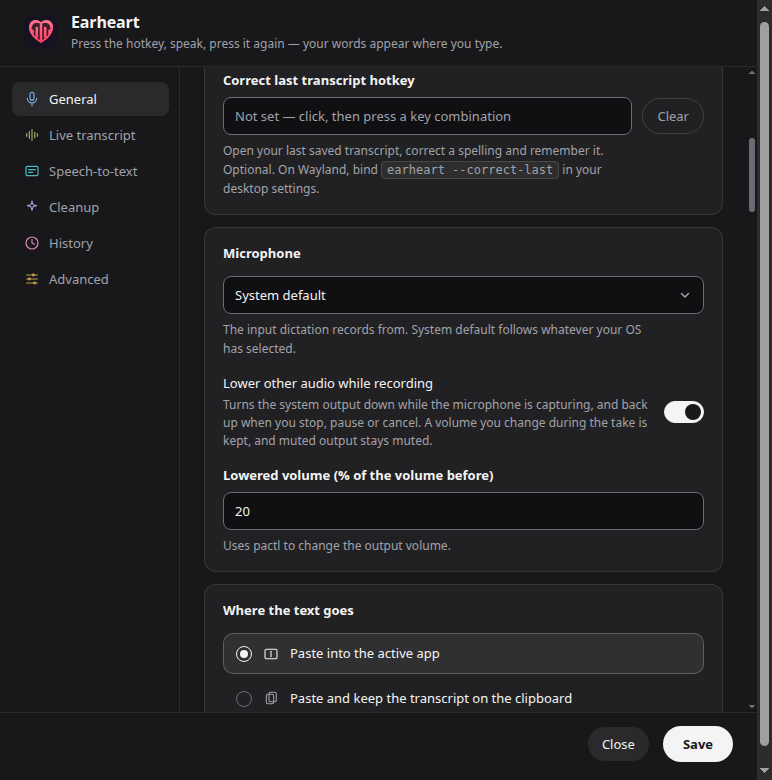
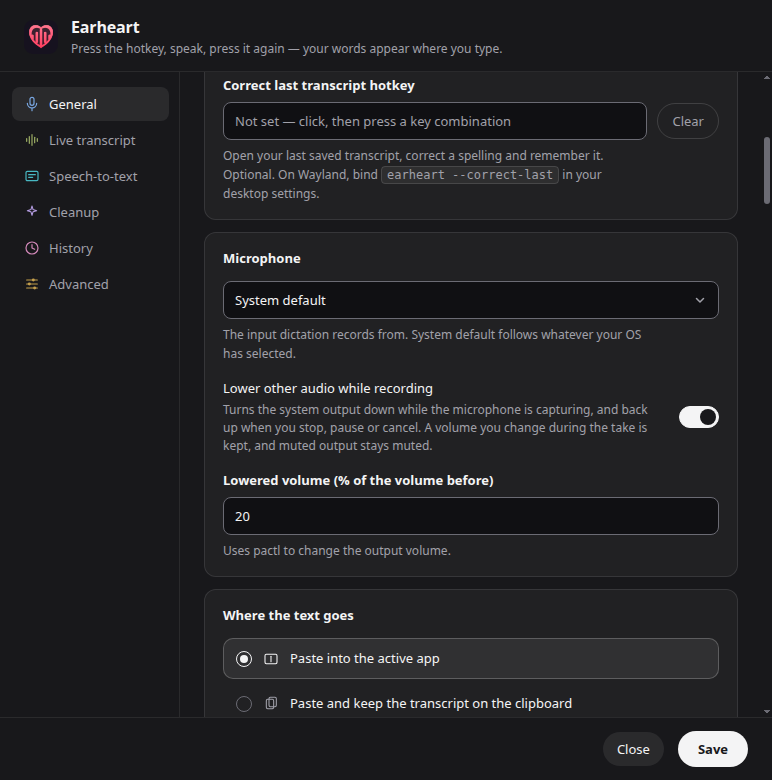
fix: remove the extra scrollbar from settings

diff --git a/scripts/settings-smoke.js b/scripts/settings-smoke.js
@@ -4,6 +4,8 @@
 //   1. The panel is one continuous scroll: every section renders at once
 //      (the scroll range is far taller than the viewport), none are
 //      display:none-swapped.
+//      Only the panel scrolls: hidden labels must not create an outer page
+//      scrollbar, including at the minimum window size.
 //   2. The scroll spy works: scrolling to the bottom lights the last index
 //      entry (Advanced) with .active + aria-current.
 //   3. The index navigates: clicking General re-highlights its entry immediately
@@ -409,6 +411,58 @@ app.whenReady().then(async () => {
       `)
     );
     check("panel scrolls as one surface", layout.scrollable);
+    const originalSize = win.getSize();
+    for (const [width, height] of [[772, 780], [755, 740], [560, 480]]) {
+      win.setSize(width, height);
+      await js(`new Promise(resolve => requestAnimationFrame(() => requestAnimationFrame(() => resolve(true))))`);
+      const bounds = await js(`(() => {
+        const host = document.querySelector("main");
+        const root = document.scrollingElement;
+        const header = document.querySelector("header");
+        const footer = document.querySelector("footer");
+        host.style.scrollBehavior = "auto";
+        host.scrollTop = host.scrollHeight;
+        window.scrollTo(0, root.scrollHeight);
+        const result = {
+          pageOverflow: root.scrollHeight - root.clientHeight,
+          pageScroll: window.scrollY,
+          panelScroll: host.scrollTop,
+          headerTop: header.getBoundingClientRect().top,
+          footerBottom: footer.getBoundingClientRect().bottom,
+          viewport: innerHeight,
+          horizontalOverflow: root.scrollWidth - root.clientWidth,
+        };
+        host.scrollTop = 0;
+        host.style.scrollBehavior = "";
+        return result;
+      })()`);
+      check(`only the settings panel scrolls at ${width}×${height}`,
+        bounds.pageOverflow === 0 && bounds.pageScroll === 0 &&
+        bounds.panelScroll > 0 && bounds.headerTop === 0 &&
+        Math.abs(bounds.footerBottom - bounds.viewport) < 1 &&
+        bounds.horizontalOverflow === 0, JSON.stringify(bounds));
+    }
+    win.setSize(...originalSize);
+    await js(`new Promise(resolve => requestAnimationFrame(() => requestAnimationFrame(() => resolve(true))))`);
+    const middleSpy = await js(`(() => {
+      const host = document.querySelector("main");
+      const section = document.getElementById("tab-cleanup");
+      const top = section.getBoundingClientRect().top - host.getBoundingClientRect().top + host.scrollTop;
+      host.style.scrollBehavior = "auto";
+      const activeAt = (offset) => {
+        host.scrollTop = top - offset;
+        host.dispatchEvent(new Event("scroll"));
+        return document.querySelector(".tab.active").dataset.tab;
+      };
+      const before = activeAt(60);
+      const after = activeAt(20);
+      host.scrollTop = 0;
+      host.dispatchEvent(new Event("scroll"));
+      host.style.scrollBehavior = "";
+      return { before, after };
+    })()`);
+    check("scroll spy changes sections at the panel read line",
+      middleSpy.before === "stt" && middleSpy.after === "cleanup", JSON.stringify(middleSpy));
     const microphone = JSON.parse(await js(`JSON.stringify({
       value: document.getElementById("mic-device").value,
       label: document.querySelector('#mic-device option[value="missing-saved-device"]')?.textContent,

diff --git a/renderer/settings.js b/renderer/settings.js
@@ -56,7 +56,7 @@ function activateTab(name, { focus = false, focusSection = false } = {}) {
   const target = Math.max(
     0,
     Math.min(
-      section.offsetTop - panelHost.offsetTop - 12,
+      section.offsetTop - 12, // main is the section's positioned offset parent
       panelHost.scrollHeight - panelHost.clientHeight
     )
   );
@@ -91,7 +91,7 @@ function spySections() {
     name = sectionName(panels[panels.length - 1]);
   } else {
     for (const p of panels) {
-      if (p.offsetTop - panelHost.offsetTop - 40 <= fromTop) {
+      if (p.offsetTop - 40 <= fromTop) {
         name = sectionName(p);
       }
     }

diff --git a/renderer/settings.css b/renderer/settings.css
@@ -208,6 +208,9 @@ nav#tabs {
 /* ---------- scroll area + sections ---------- */
 
 main {
+  /* Keep absolutely positioned accessibility labels inside this scroller;
+     otherwise their static positions extend the document's scroll range. */
+  position: relative;
   flex: 1;
   min-width: 0;
   overflow-y: auto;

diff --git a/DESIGN.md b/DESIGN.md
@@ -431,6 +431,8 @@ vanishes on its own. The index is a scroll spy with roving tabindex: the
 entry currently in view takes the wash; clicking glides the page
 (`scroll-behavior: smooth`) and moves focus to the section legend. Below 600px
 the index docks horizontally above the page.
+The scrolling `main` is a positioned container so visually hidden labels stay
+inside its scroll range and cannot create an outer document scrollbar.
 
 **The setup wizard** (620×680, 560×560 minimum). Layers on `settings.css`:
 same header and materials. Steps (max-width 640px) center vertically in the
